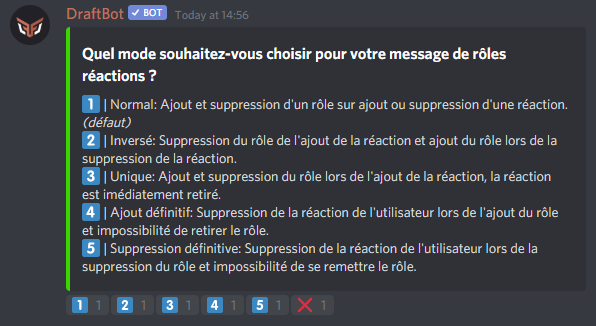
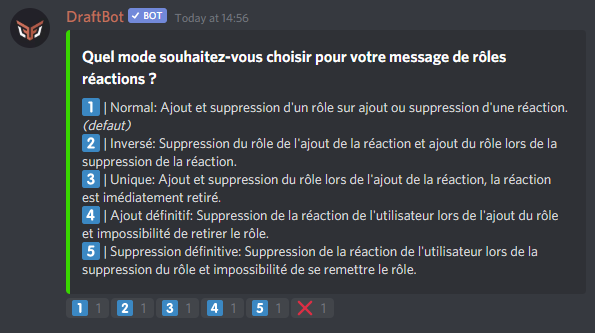
GitBook: [master] 4 pages and 3 assets modified

diff --git a/features/suggestions.md b/features/suggestions.md
@@ -1,0 +1,29 @@
+---
+description: >-
+  Offrez la possibilité à vos membres de proposer des idées pour le futur de
+  votre serveur.
+---
+
+# Système de suggestions
+
+## Configuration
+
+Vous pouvez configurer le système de suggestion grâce à la commande `suggest config`  
+Vous aurez alors la possibilité : 
+
+* d'activer ou de désactiver les suggestions sur votre serveur
+* de choisir le salon qui recevra les suggestions de vos membres
+* de choisir un emoji 
+  * pour un vote favorable
+  * pour un vote neutre
+  * pour un vote défavorable
+
+## Utilisation
+
+Pour que vos membres puissent envoyer leurs suggestions sur votre serveur, ils devront utiliser la commande `suggest` suivi de leur suggestion  
+Les membres de votre serveur pourront ensuite voter aux suggestions à l'aide des suggestions que vous avez défini dans la configuration.
+
+![Message envoy&#xE9; dans votre salon d&#xE9;di&#xE9; aux suggestions apr&#xE8;s qu&apos;une suggestion soit propos&#xE9; ](../.gitbook/assets/image%20%2830%29.png)
+
+
+

diff --git a/SUMMARY.md b/SUMMARY.md
@@ -19,6 +19,7 @@
 * [Interserveurs](features/interserveurs.md)
 * [Gestion des messages](features/gestion-des-messages.md)
 * [Commandes d'informations](features/commandes-dinformation.md)
+* [Système de suggestions](features/suggestions.md)
 * [Anniversaires](features/birthday.md)
 * [A FAIRE](features/a-faire/README.md)
   * [Captcha](features/a-faire/captcha.md)
@@ -26,7 +27,6 @@
   * [Economie](features/a-faire/economie.md)
   * [Membercount](features/a-faire/membercount.md)
   * [Report](features/a-faire/report.md)
-  * [Système de suggestions](features/a-faire/suggestions.md)
 
 ## Autres
 

diff --git a/features/rolereact.md b/features/rolereact.md
@@ -86,7 +86,7 @@ Il vous suffira ensuite de **laissé appuyer votre doigt** sur le message si vou
 
 Ensuite vous aurez le choix entre 5 possibilités, que vous aurez à valider en cliquant sur une des réactions en dessous du message de DraftBot.
 
-![Message obtenu apr&#xE8;s avoir effectu&#xE9; la commande rolereact mode](../.gitbook/assets/image%20%2831%29.png)
+![Message obtenu apr&#xE8;s avoir effectu&#xE9; la commande rolereact mode](../.gitbook/assets/image%20%2832%29.png)
 
 ## Configurer un rolereact <a id="config"></a>
 
